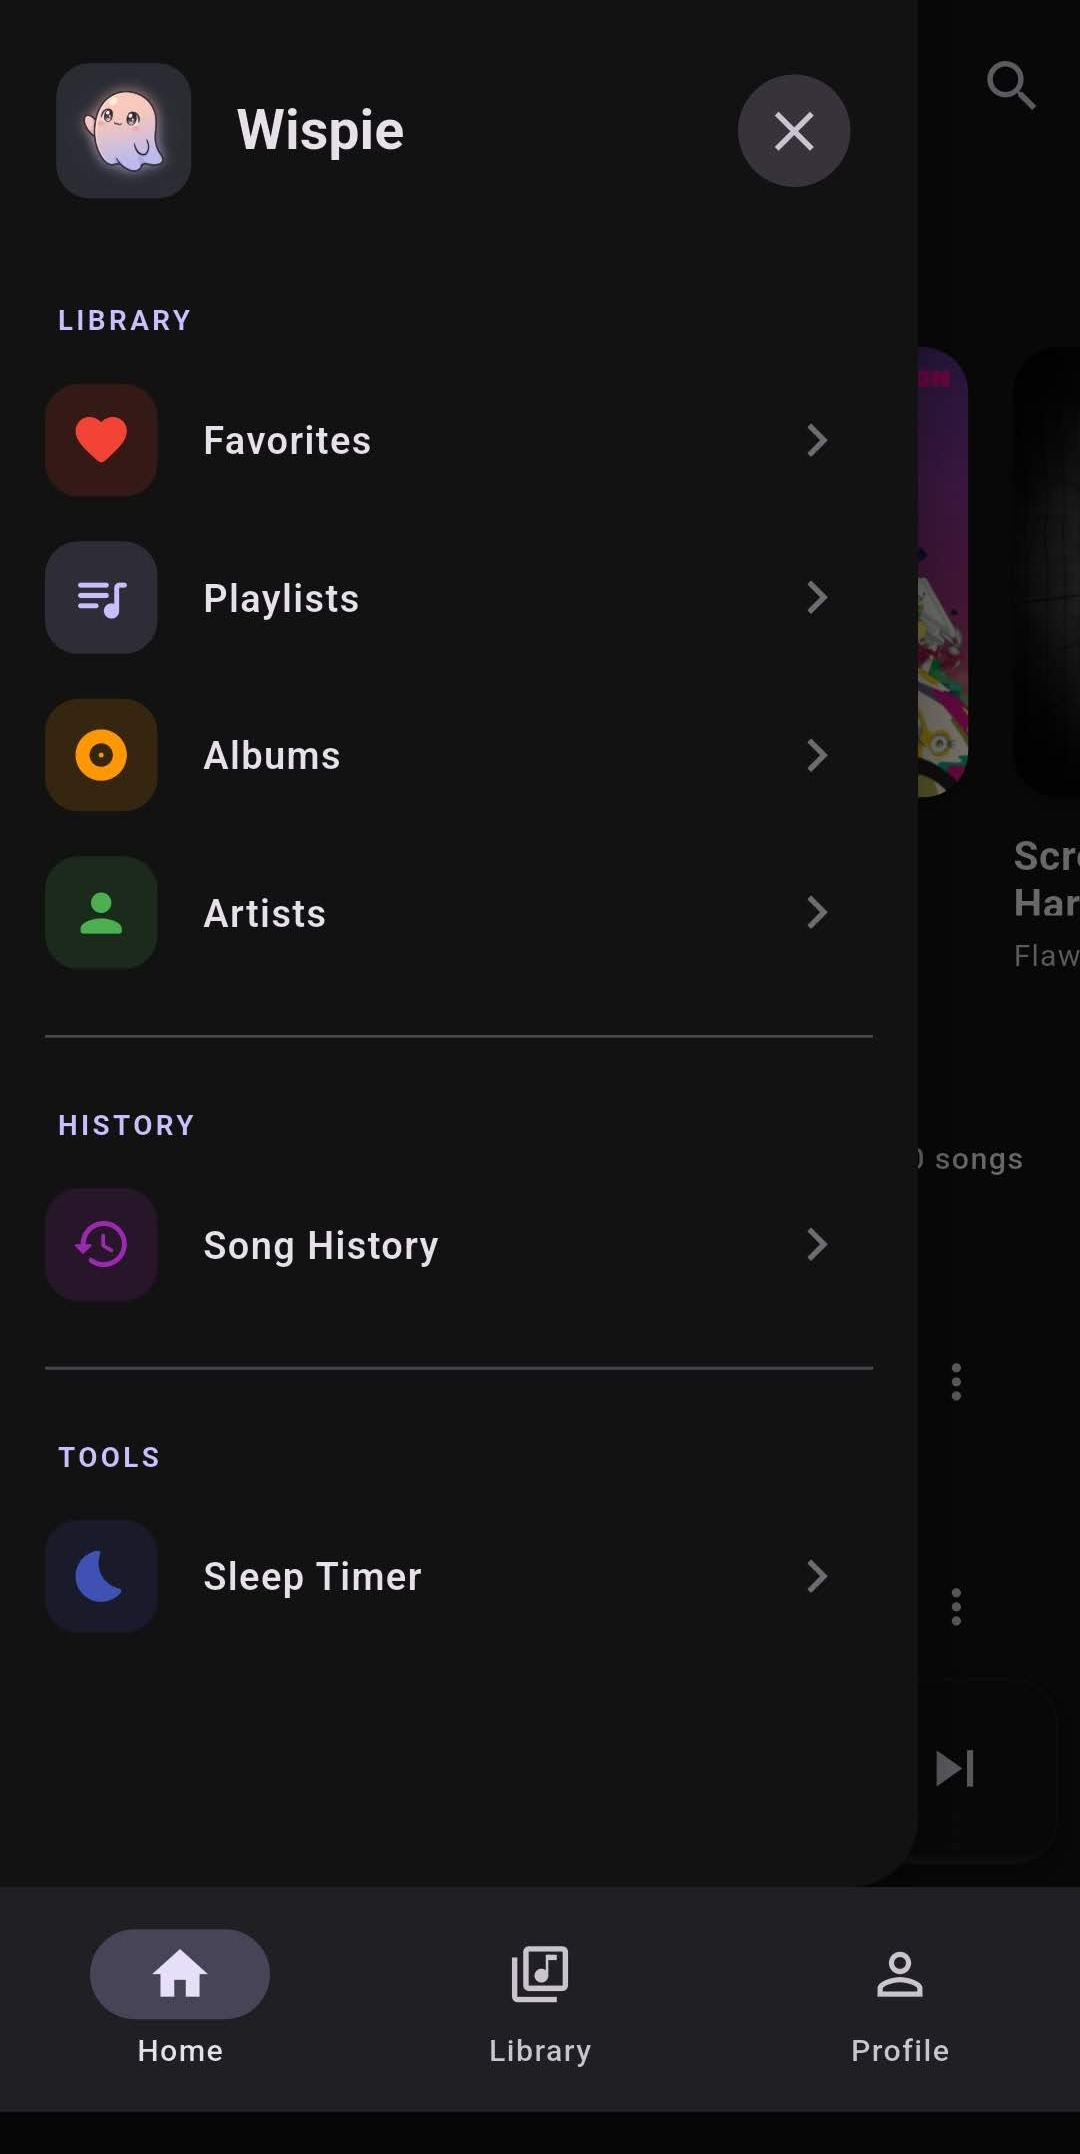
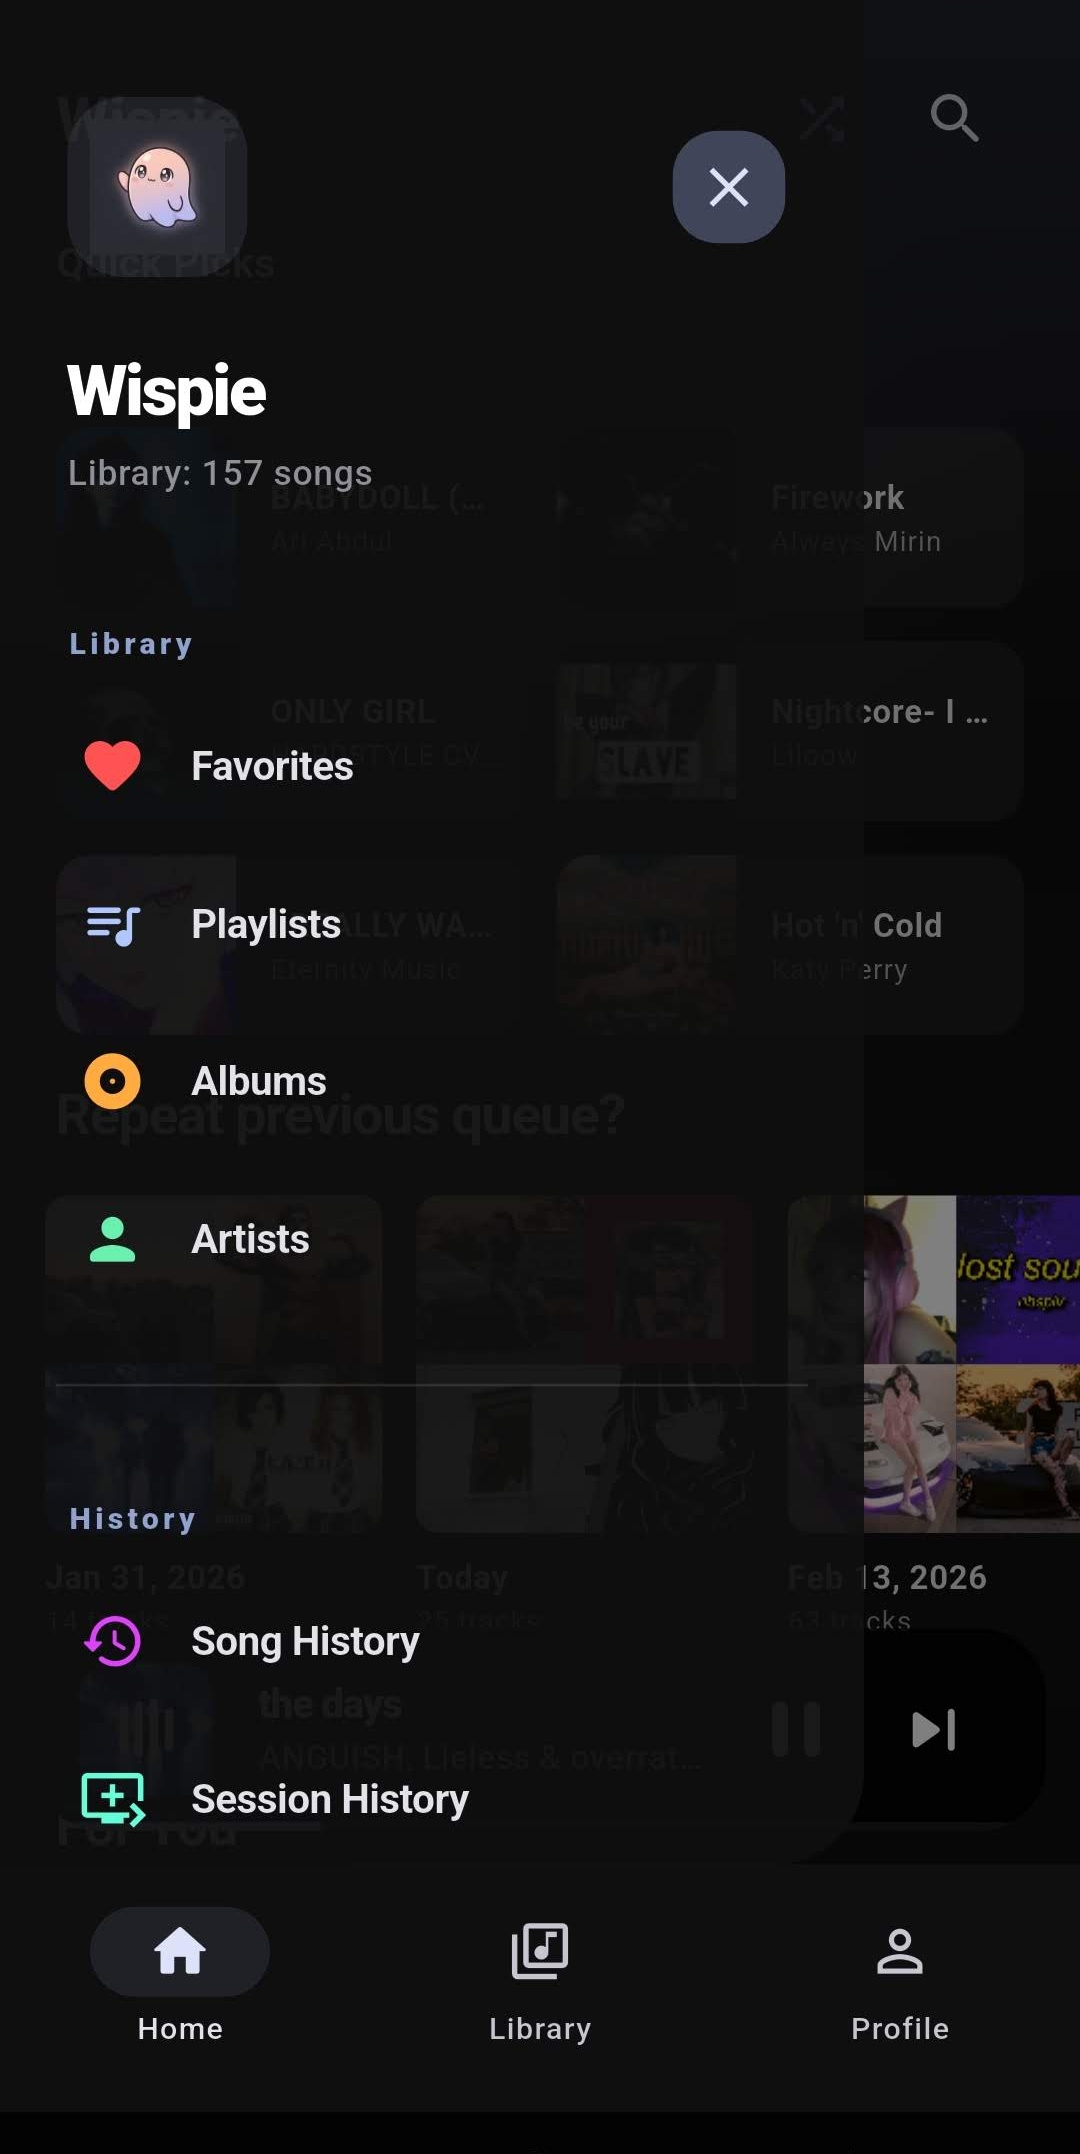
Minor homescreen update
Update assets

diff --git a/lib/presentation/screens/home_screen.dart b/lib/presentation/screens/home_screen.dart
@@ -54,13 +54,6 @@ class _HomeScreenState extends ConsumerState<HomeScreen> {
     ref.invalidate(songsProvider);
   }
 
-  String _getGreeting() {
-    final hour = DateTime.now().hour;
-    if (hour < 12) return 'Good Morning';
-    if (hour < 17) return 'Good Afternoon';
-    return 'Good Evening';
-  }
-
   Widget _buildQuickPickTile(
       Song song, ThemeData theme, AudioPlayerManager audioManager) {
     return GestureDetector(
@@ -463,115 +456,62 @@ class _HomeScreenState extends ConsumerState<HomeScreen> {
             child: CustomScrollView(
               physics: const BouncingScrollPhysics(),
               slivers: [
-                SliverAppBar(
-                  expandedHeight: 120,
-                  collapsedHeight: 80,
-                  floating: true,
-                  pinned: false,
-                  backgroundColor: Colors.transparent,
-                  flexibleSpace: FlexibleSpaceBar(
-                    titlePadding: const EdgeInsets.fromLTRB(20, 0, 20, 16),
-                    title: Text(
-                      'Wispie',
-                      style: theme.textTheme.headlineMedium?.copyWith(
-                        color: Colors.white,
-                      ),
-                    ),
-                    centerTitle: false,
-                  ),
-                  actions: [
-                    IconButton(
-                      icon: const Icon(Icons.shuffle_rounded),
-                      onPressed: () {
-                        if (songs.isNotEmpty) {
-                          audioManager.shuffleAndPlay(songs,
-                              isRestricted: false);
-                        }
-                      },
-                      tooltip: 'Shuffle All',
-                    ),
-                    IconButton(
-                      icon: const Icon(Icons.search_rounded),
-                      onPressed: () {
-                        Navigator.push(
-                          context,
-                          MaterialPageRoute(
-                              builder: (_) => const SearchScreen()),
-                        );
-                      },
-                    ),
-                    const SizedBox(width: 8),
-                  ],
-                ),
                 SliverToBoxAdapter(
                   child: Padding(
-                    padding: const EdgeInsets.fromLTRB(20, 0, 20, 24),
-                    child: Column(
-                      crossAxisAlignment: CrossAxisAlignment.start,
+                    padding: EdgeInsets.fromLTRB(
+                        20, MediaQuery.of(context).padding.top + 16, 20, 16),
+                    child: Row(
+                      mainAxisAlignment: MainAxisAlignment.spaceBetween,
                       children: [
+                        Text(
+                          'Wispie',
+                          style: theme.textTheme.headlineSmall?.copyWith(
+                            color: Colors.white,
+                            fontWeight: FontWeight.w800,
+                          ),
+                        ),
                         Row(
-                          mainAxisAlignment: MainAxisAlignment.spaceBetween,
                           children: [
-                            Column(
-                              crossAxisAlignment: CrossAxisAlignment.start,
-                              children: [
-                                Text(
-                                  _getGreeting(),
-                                  style:
-                                      theme.textTheme.headlineMedium?.copyWith(
-                                    fontWeight: FontWeight.w900,
-                                    color: Colors.white,
-                                  ),
-                                ),
-                              ],
+                            IconButton(
+                              icon: Icon(Icons.shuffle_rounded,
+                                  color: theme.colorScheme.primary),
+                              onPressed: () {
+                                if (songs.isNotEmpty) {
+                                  audioManager.shuffleAndPlay(songs,
+                                      isRestricted: false);
+                                }
+                              },
                             ),
-                            Container(
-                              decoration: BoxDecoration(
-                                color: theme.colorScheme.primary
-                                    .withValues(alpha: 0.1),
-                                borderRadius: BorderRadius.circular(20),
-                              ),
-                              child: IconButton(
-                                icon: Icon(Icons.shuffle_rounded,
-                                    color: theme.colorScheme.primary),
-                                iconSize: 28,
-                                onPressed: () {
-                                  if (songs.isNotEmpty) {
-                                    audioManager.shuffleAndPlay(songs,
-                                        isRestricted: false);
-                                  }
-                                },
-                              ),
+                            IconButton(
+                              icon: const Icon(Icons.search_rounded),
+                              onPressed: () {
+                                Navigator.push(
+                                  context,
+                                  MaterialPageRoute(
+                                      builder: (_) => const SearchScreen()),
+                                );
+                              },
                             ),
                           ],
                         ),
-                        const SizedBox(height: 24),
+                      ],
+                    ),
+                  ),
+                ),
+                SliverToBoxAdapter(
+                  child: Padding(
+                    padding: const EdgeInsets.fromLTRB(20, 0, 20, 16),
+                    child: Column(
+                      crossAxisAlignment: CrossAxisAlignment.start,
+                      children: [
                         if (topRecommendations.isNotEmpty) ...[
-                          Row(
-                            mainAxisAlignment: MainAxisAlignment.spaceBetween,
-                            children: [
-                              Text(
-                                'Quick Picks',
-                                style: theme.textTheme.titleLarge,
-                              ),
-                              TextButton(
-                                onPressed: () {
-                                  Navigator.push(
-                                    context,
-                                    MaterialPageRoute(
-                                      builder: (_) => SongListScreen(
-                                        title: 'Quick Picks',
-                                        songs: topRecommendations,
-                                        playlistId: 'quick_picks',
-                                      ),
-                                    ),
-                                  );
-                                },
-                                child: const Text('See all'),
-                              ),
-                            ],
+                          Text(
+                            'Quick Picks',
+                            style: theme.textTheme.titleMedium?.copyWith(
+                              fontWeight: FontWeight.w700,
+                            ),
                           ),
-                          const SizedBox(height: 8),
+                          const SizedBox(height: 12),
                           GridView.builder(
                             shrinkWrap: true,
                             physics: const NeverScrollableScrollPhysics(),

diff --git a/lib/presentation/screens/player_screen.dart b/lib/presentation/screens/player_screen.dart
@@ -1,5 +1,6 @@
 import 'dart:io';
 import 'dart:async';
+import 'dart:ui';
 import 'package:flutter/foundation.dart';
 import 'package:flutter/gestures.dart';
 import 'package:flutter/material.dart';
@@ -472,19 +473,22 @@ class _PlayerScreenState extends ConsumerState<PlayerScreen>
                                   url: metadata.artUri?.toString() ?? '',
                                   filename: metadata.id,
                                   fit: BoxFit.cover,
-                                  memCacheWidth: 100,
                                 ),
                               ),
                               Positioned.fill(
-                                child: Container(
-                                  decoration: BoxDecoration(
-                                    gradient: LinearGradient(
-                                      begin: Alignment.topCenter,
-                                      end: Alignment.bottomCenter,
-                                      colors: [
-                                        Colors.black.withValues(alpha: 0.5),
-                                        Colors.black.withValues(alpha: 0.8),
-                                      ],
+                                child: BackdropFilter(
+                                  filter:
+                                      ImageFilter.blur(sigmaX: 40, sigmaY: 40),
+                                  child: Container(
+                                    decoration: BoxDecoration(
+                                      gradient: LinearGradient(
+                                        begin: Alignment.topCenter,
+                                        end: Alignment.bottomCenter,
+                                        colors: [
+                                          Colors.black.withValues(alpha: 0.5),
+                                          Colors.black.withValues(alpha: 0.8),
+                                        ],
+                                      ),
                                     ),
                                   ),
                                 ),

diff --git a/lib/presentation/widgets/fun_stats_view.dart b/lib/presentation/widgets/fun_stats_view.dart
@@ -1,22 +1,16 @@
-import 'package:flutter/foundation.dart';
 import 'package:flutter/material.dart';
 import 'package:flutter_riverpod/flutter_riverpod.dart';
 import '../../providers/providers.dart';
-import '../../services/stats_service.dart';
 
 class FunStatsView extends ConsumerWidget {
   const FunStatsView({super.key});
-
-  static Future<Map<String, dynamic>> _fetchStats(StatsService service) async {
-    return await service.getFunStats();
-  }
 
   @override
   Widget build(BuildContext context, WidgetRef ref) {
     final statsService = ref.watch(statsServiceProvider);
 
     return FutureBuilder<Map<String, dynamic>>(
-      future: compute(_fetchStats, statsService),
+      future: statsService.getFunStats(),
       builder: (context, snapshot) {
         if (snapshot.connectionState == ConnectionState.waiting) {
           return const Center(child: CircularProgressIndicator());
